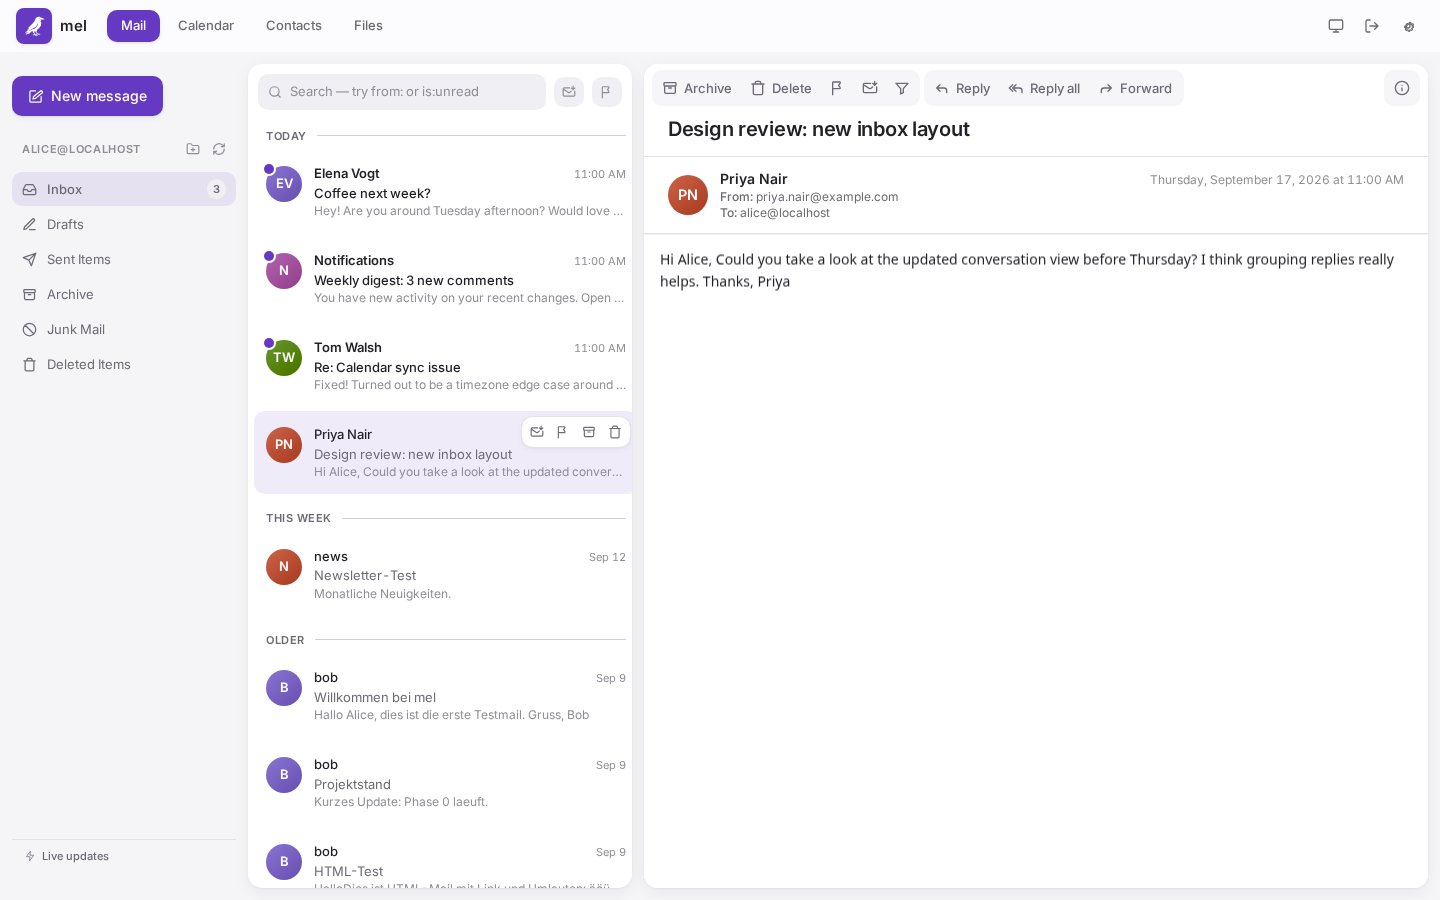
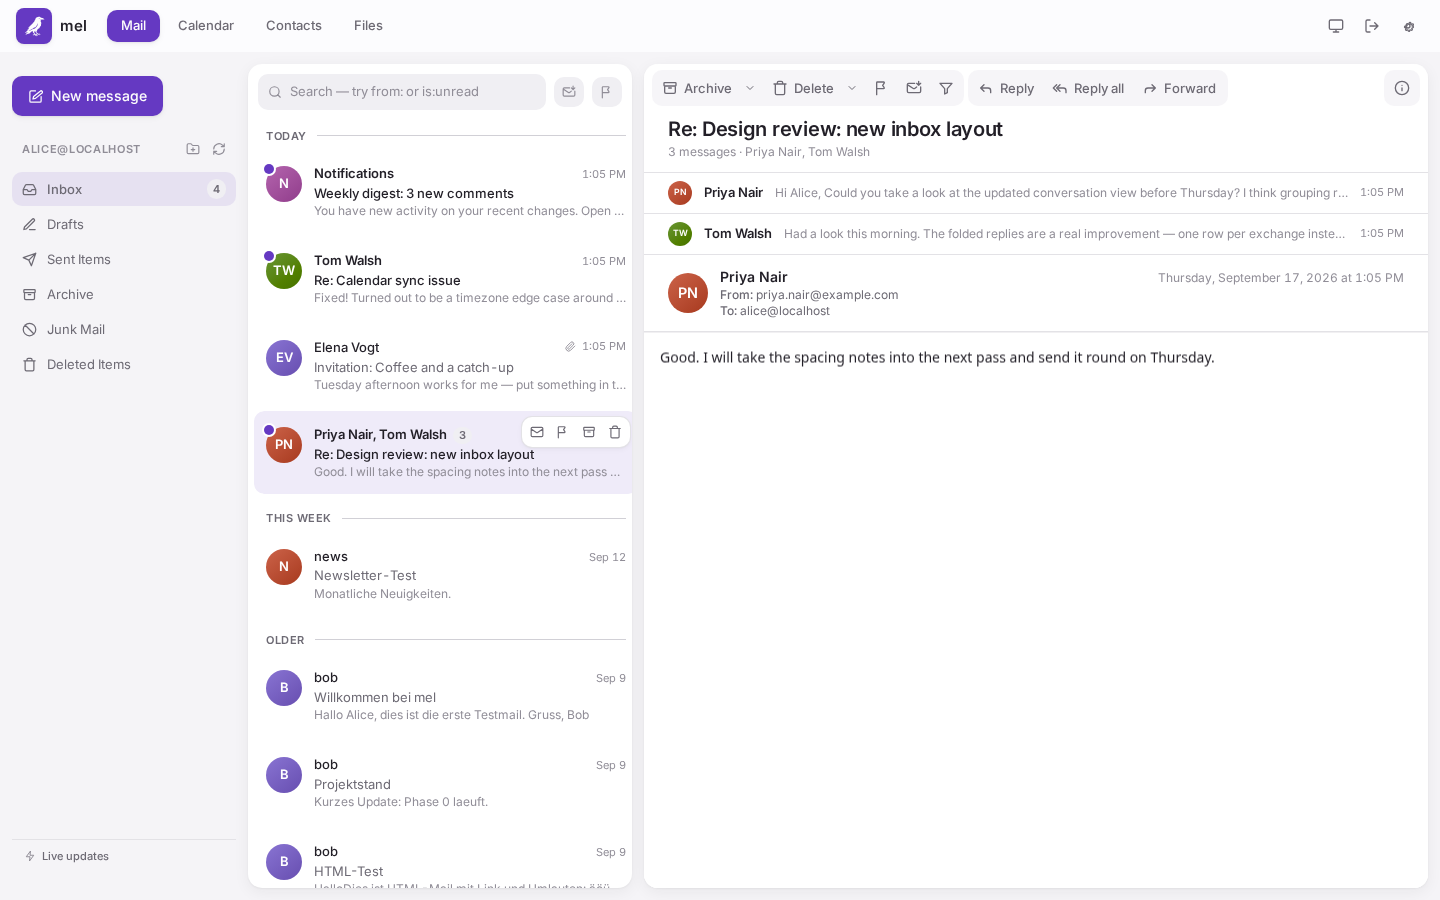
docs: show a conversation, an invitation and birthdays in the screenshots
The demo inbox was six unrelated messages, so the mail screenshot showed
neither of the two things the reading pane is actually built around. Three of
them now form one thread, and one carries a real text/calendar part — an iMIP
REQUEST over SMTP, not a stub — so the invitation card gets a shot of its own.

Two demo contacts have birthdays falling in the week the calendar is showing,
which is also what puts the Birthdays calendar in the sidebar.

Claude-Session: https://claude.ai/code/session_01G2CgtBsGkSsjQECxVd9kGx

diff --git a/README.md b/README.md
@@ -56,10 +56,16 @@ React 19 + TypeScript + Vite, Tailwind, TanStack Router, Dexie.
     </td>
   </tr>
   <tr>
-    <td colspan="2" align="center">
+    <td width="50%">
+      <picture>
+        <source media="(prefers-color-scheme: dark)" srcset="docs/media/screenshot-invitation-dark.png">
+        <img src="docs/media/screenshot-invitation-light.png" alt="An invitation in the reading pane, offering to add the event to a calendar" width="100%">
+      </picture>
+    </td>
+    <td width="50%">
       <picture>
         <source media="(prefers-color-scheme: dark)" srcset="docs/media/screenshot-files-dark.png">
-        <img src="docs/media/screenshot-files-light.png" alt="The files browser with a text file previewing in place" width="70%">
+        <img src="docs/media/screenshot-files-light.png" alt="The files browser with a text file previewing in place" width="100%">
       </picture>
     </td>
   </tr>
